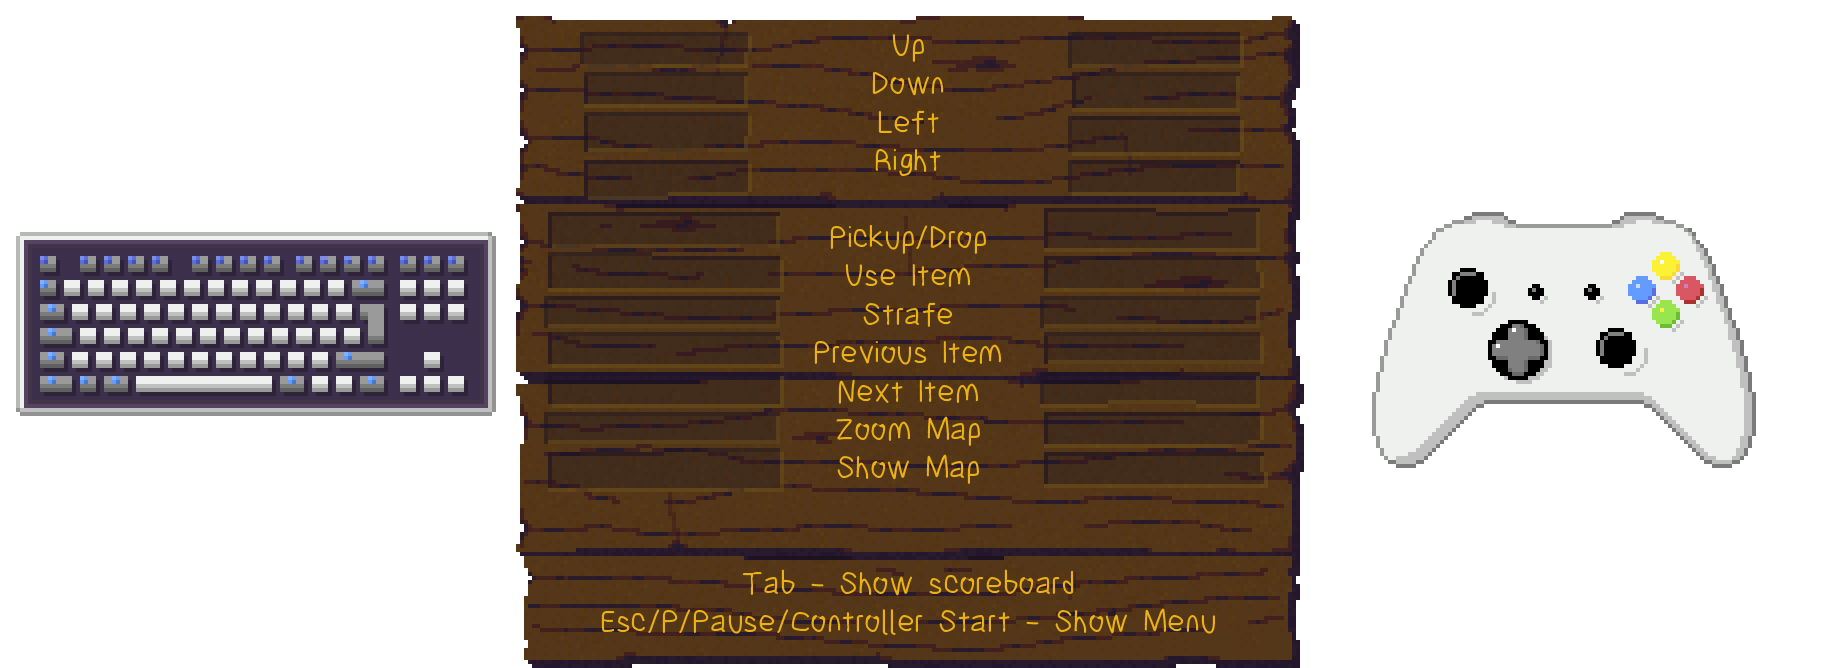
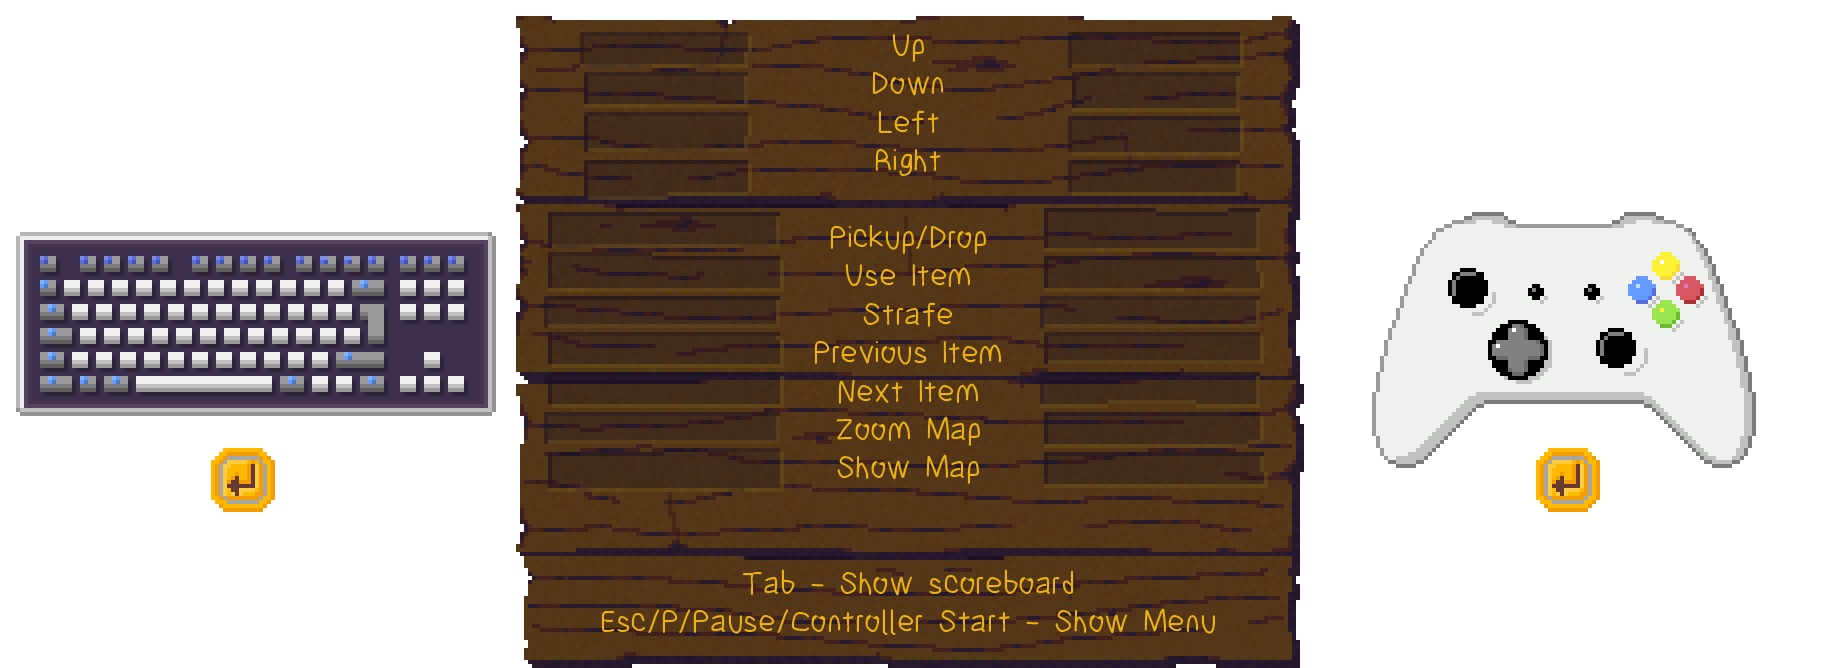
add button to options menu to reset controls to default

Changed region(s): [[0.0938, 0.6587, 0.1562, 0.7784], [0.8438, 0.6587, 0.875, 0.7784]]

diff --git a/did/src/MenuUIOptions.cpp b/did/src/MenuUIOptions.cpp
@@ -46,12 +46,15 @@ namespace
     {
         7
     };
+
+    const std::string defaultMessage("Click on an input to change it");
 }
 
 void MenuState::buildOptions(sf::Font& font)
 {
     auto mouseOver = m_callbackIDs[Menu::CallbackID::TextSelected];
     auto mouseOut = m_callbackIDs[Menu::CallbackID::TextUnselected];
+
 
     auto parentEntity = m_uiScene.createEntity();
     parentEntity.addComponent<xy::Transform>().setPosition(Menu::OffscreenPosition);
@@ -155,7 +158,7 @@ void MenuState::buildOptions(sf::Font& font)
     entity = m_uiScene.createEntity();
     entity.addComponent<xy::Transform>().setPosition(xy::DefaultSceneSize.x / 2.f, 800.f);
     entity.addComponent<xy::Drawable>();
-    entity.addComponent<xy::Text>(finefont).setString("Click on an input to change it");
+    entity.addComponent<xy::Text>(finefont).setString(defaultMessage);
     entity.getComponent<xy::Text>().setCharacterSize(40);
     entity.getComponent<xy::Text>().setFillColour(Global::InnerTextColour);
     entity.getComponent<xy::Text>().setAlignment(xy::Text::Alignment::Centre);
@@ -178,6 +181,8 @@ void MenuState::buildOptions(sf::Font& font)
         ent.getComponent<xy::Text>().setAlignment(xy::Text::Alignment::Centre);
         ent.getComponent<xy::Text>().setFillColour(Global::InnerTextColour);
         ent.getComponent<xy::Text>().setCharacterSize(Global::SmallTextSize);
+        ent.addComponent<xy::CommandTarget>().ID = Menu::CommandID::KeybindButton;
+        ent.addComponent<std::int32_t>() = binding;
 
         ent.addComponent<xy::UIHitBox>().area = buttonArea;
         ent.getComponent<xy::UIHitBox>().callbacks[xy::UIHitBox::MouseUp] =
@@ -268,6 +273,9 @@ void MenuState::buildOptions(sf::Font& font)
                             m_uiScene.getSystem<xy::CommandSystem>().sendCommand(cmd);
                         }
                     });
+
+            ent.addComponent<xy::CommandTarget>().ID = Menu::CommandID::JoybindButton;
+            ent.addComponent<std::int32_t>() = binding;
         }
 
         bgEntity.getComponent<xy::Transform>().addChild(ent.getComponent<xy::Transform>());
@@ -296,6 +304,87 @@ void MenuState::buildOptions(sf::Font& font)
     currPos.y += verticalOffset;
     addJoyWindow(InputBinding::ShowMap, currPos);
 
+    //reset buttons
+    auto mouseEnter = m_uiScene.getSystem<xy::UISystem>().addMouseMoveCallback(
+        [&](xy::Entity, sf::Vector2f)
+        {
+            xy::Command cmd;
+            cmd.targetFlags = Menu::CommandID::OptionsInfoText;
+            cmd.action = [](xy::Entity e, float) {e.getComponent<xy::Text>().setString("Reset Controls"); };
+            m_uiScene.getSystem<xy::CommandSystem>().sendCommand(cmd);
+        });
+    auto mouseExit = m_uiScene.getSystem<xy::UISystem>().addMouseMoveCallback(
+        [&](xy::Entity, sf::Vector2f)
+        {
+            xy::Command cmd;
+            cmd.targetFlags = Menu::CommandID::OptionsInfoText;
+            cmd.action = [](xy::Entity e, float) {e.getComponent<xy::Text>().setString(defaultMessage); };
+            m_uiScene.getSystem<xy::CommandSystem>().sendCommand(cmd);
+        });
+
+    entity = m_uiScene.createEntity();
+    entity.addComponent<xy::Transform>().setPosition(210.f, 448.f);
+    entity.addComponent<xy::UIHitBox>().area = { 0.f, 0.f, 64.f, 64.f };
+    entity.getComponent<xy::UIHitBox>().callbacks[xy::UIHitBox::MouseEnter] = mouseEnter;
+    entity.getComponent<xy::UIHitBox>().callbacks[xy::UIHitBox::MouseExit] = mouseExit;
+    entity.getComponent<xy::UIHitBox>().callbacks[xy::UIHitBox::MouseUp] =
+        m_uiScene.getSystem<xy::UISystem>().addMouseButtonCallback(
+            [&](xy::Entity, sf::Uint64 flags) 
+            {
+                if (flags & xy::UISystem::LeftMouse)
+                {
+                    m_sharedData.inputBinding.keys =
+                    {
+                        sf::Keyboard::M,
+                        sf::Keyboard::Z,
+                        sf::Keyboard::Space,
+                        sf::Keyboard::LControl,
+                        sf::Keyboard::E,
+                        sf::Keyboard::Q,
+                        sf::Keyboard::LShift,
+                        sf::Keyboard::A,
+                        sf::Keyboard::D,
+                        sf::Keyboard::W,
+                        sf::Keyboard::S
+                    };
+
+                    xy::Command cmd;
+                    cmd.targetFlags = Menu::CommandID::KeybindButton;
+                    cmd.action = [&](xy::Entity e, float)
+                    {
+                        e.getComponent<xy::Text>().setString(KeyMapping.at(m_sharedData.inputBinding.keys[e.getComponent<std::int32_t>()]));
+                    };
+                    m_uiScene.getSystem<xy::CommandSystem>().sendCommand(cmd);
+                }
+            });
+    bgEntity.getComponent<xy::Transform>().addChild(entity.getComponent<xy::Transform>());
+
+    entity = m_uiScene.createEntity();
+    entity.addComponent<xy::Transform>().setPosition(1126.f, 448.f);
+    entity.addComponent<xy::UIHitBox>().area = { 0.f, 0.f, 64.f, 64.f };
+    entity.getComponent<xy::UIHitBox>().callbacks[xy::UIHitBox::MouseEnter] = mouseEnter;
+    entity.getComponent<xy::UIHitBox>().callbacks[xy::UIHitBox::MouseExit] = mouseExit;
+    entity.getComponent<xy::UIHitBox>().callbacks[xy::UIHitBox::MouseUp] =
+        m_uiScene.getSystem<xy::UISystem>().addMouseButtonCallback(
+            [&](xy::Entity, sf::Uint64 flags)
+            {
+                if (flags & xy::UISystem::LeftMouse)
+                {
+                    m_sharedData.inputBinding.buttons =
+                    {
+                        {6, 2, 0, 1, 5, 3, 4} //Back, X, A, B , LB, RB, Y
+                    };
+
+                    xy::Command cmd;
+                    cmd.targetFlags = Menu::CommandID::JoybindButton;
+                    cmd.action = [&](xy::Entity e, float)
+                    {
+                        e.getComponent<xy::Text>().setString(JoyMapping[m_sharedData.inputBinding.keys[e.getComponent<std::int32_t>()]]);
+                    };
+                    m_uiScene.getSystem<xy::CommandSystem>().sendCommand(cmd);
+                }
+            });
+    bgEntity.getComponent<xy::Transform>().addChild(entity.getComponent<xy::Transform>());
 }
 
 void MenuState::handleKeyMapping(const sf::Event& evt)
@@ -340,7 +429,7 @@ void MenuState::handleKeyMapping(const sf::Event& evt)
             cmd.targetFlags = Menu::CommandID::OptionsInfoText;
             cmd.action = [](xy::Entity e, float)
             {
-                e.getComponent<xy::Text>().setString("Click on an input to change it");
+                e.getComponent<xy::Text>().setString(defaultMessage);
             };
             m_uiScene.getSystem<xy::CommandSystem>().sendCommand(cmd);
         }
@@ -363,7 +452,7 @@ void MenuState::handleJoyMapping(const sf::Event& evt)
         cmd.targetFlags = Menu::CommandID::OptionsInfoText;
         cmd.action = [](xy::Entity e, float)
         {
-            e.getComponent<xy::Text>().setString("Click on an input to change it");
+            e.getComponent<xy::Text>().setString(defaultMessage);
         };
         m_uiScene.getSystem<xy::CommandSystem>().sendCommand(cmd);
     }
@@ -407,7 +496,7 @@ void MenuState::handleJoyMapping(const sf::Event& evt)
             cmd.targetFlags = Menu::CommandID::OptionsInfoText;
             cmd.action = [](xy::Entity e, float)
             {
-                e.getComponent<xy::Text>().setString("Click on an input to change it");
+                e.getComponent<xy::Text>().setString(defaultMessage);
             };
             m_uiScene.getSystem<xy::CommandSystem>().sendCommand(cmd);
         }

diff --git a/did/src/MenuUI.hpp b/did/src/MenuUI.hpp
@@ -47,7 +47,9 @@ namespace Menu
 
             ChatInText = 0x2000,
             ChatOutText = 0x4000,
-            OptionsInfoText = 0x8000
+            OptionsInfoText = 0x8000,
+            KeybindButton = 0x10000,
+            JoybindButton = 0x20000
         };
     }
 
